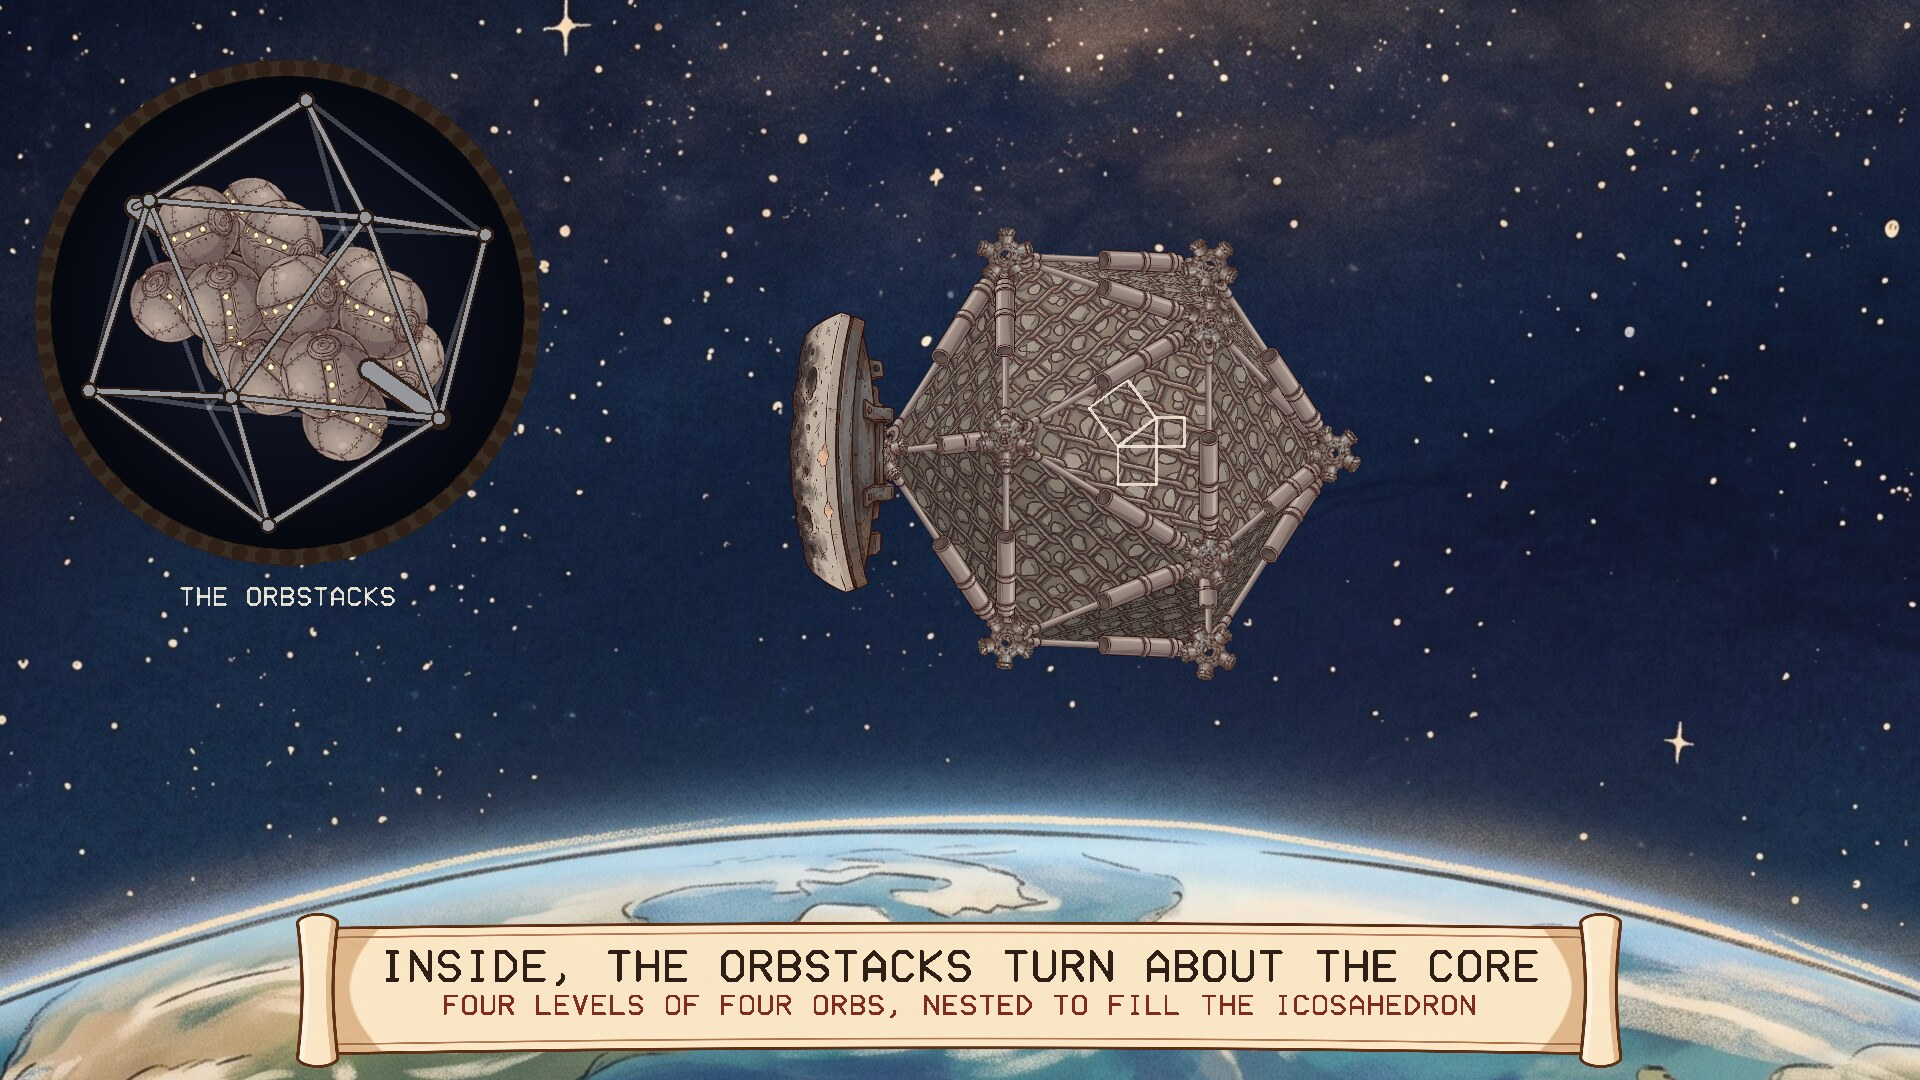
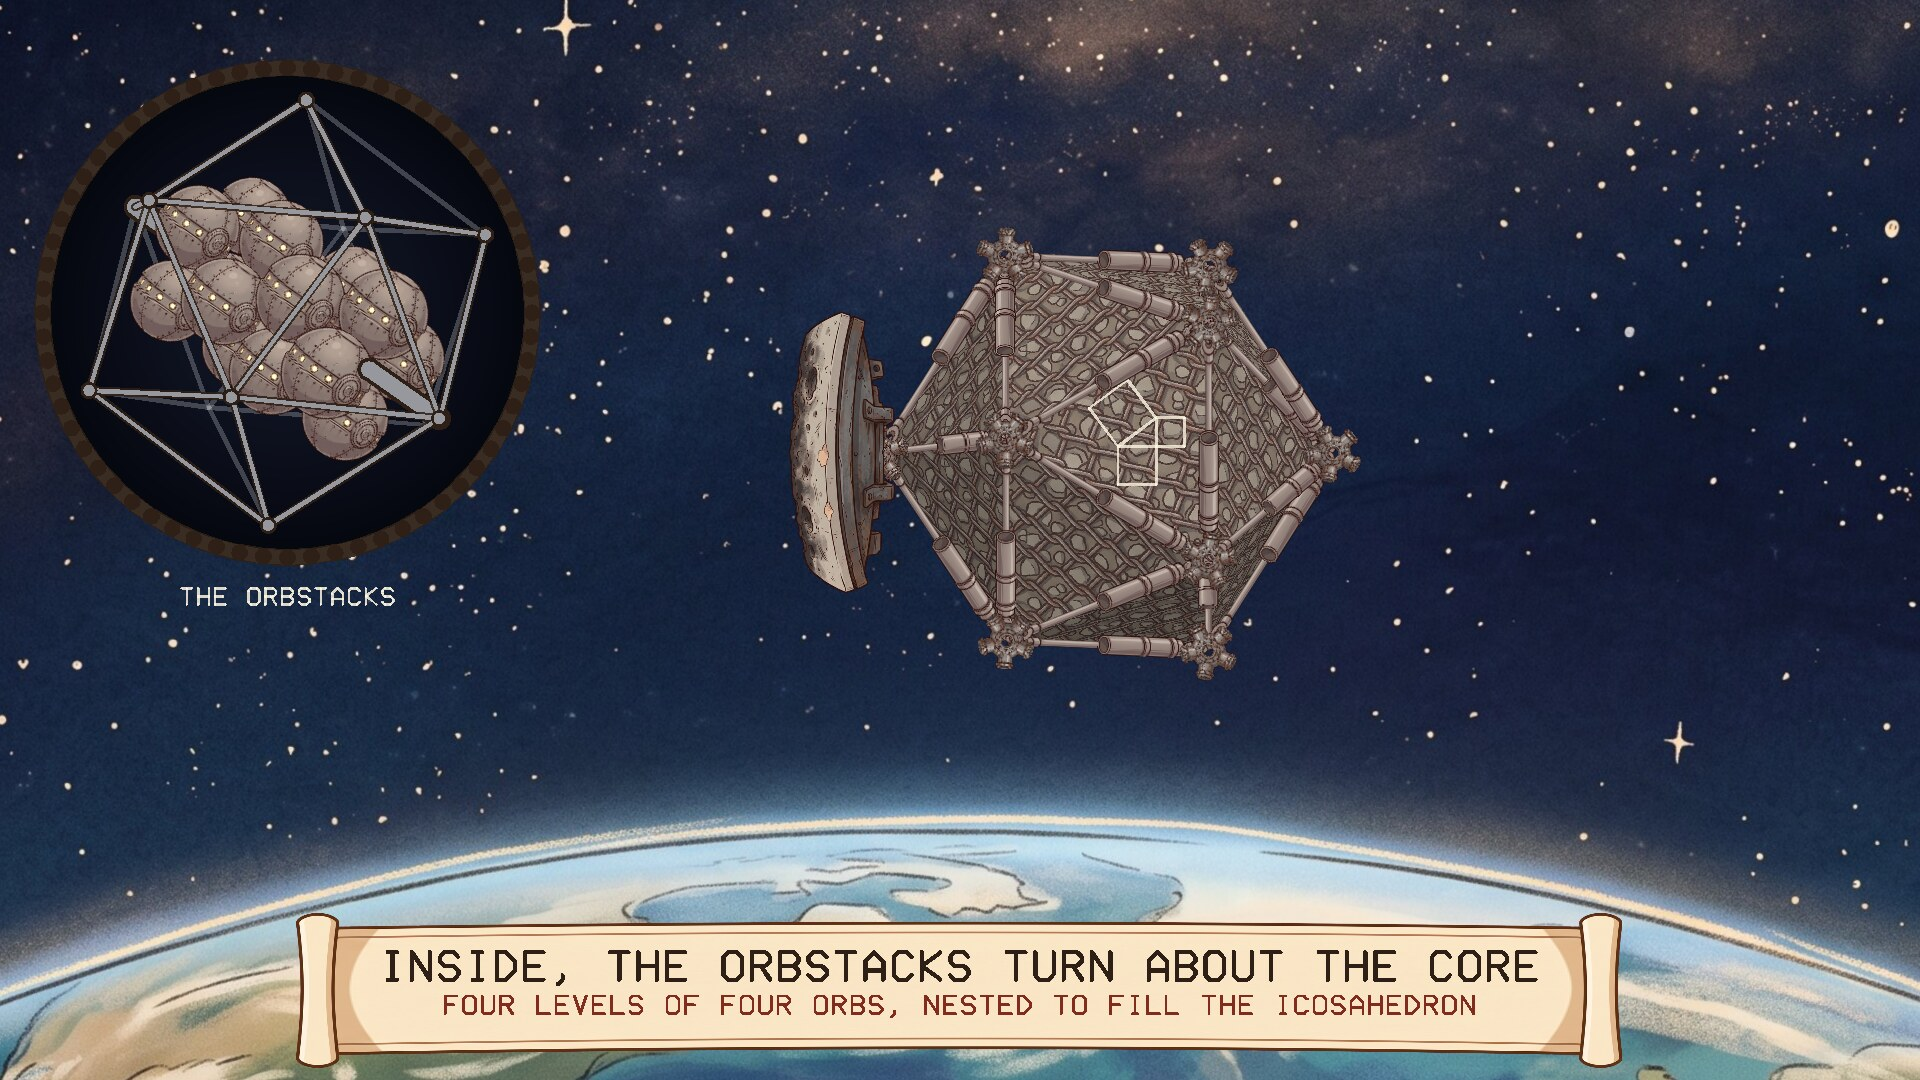
The orbstack goes round the Core as one piece

Changed region(s): [[0.0625, 0.1528, 0.25, 0.4278]]

diff --git a/src/urnud.c b/src/urnud.c
@@ -524,7 +524,9 @@ static void draw_core(double cx, double cy, double R)
         o[n].hx = cx + ax * along; o[n].hy = cy + ay * along;
         o[n].x = o[n].hx + (ux * c + vx * sn) * reach; o[n].y = o[n].hy + (uy * c + vy * sn) * reach;
         o[n].z = az * along + vz * sn * reach;
-        o[n].deg = atan2(o[n].y - o[n].hy, o[n].x - o[n].hx) * 180 / M_PI + 90;
+        /* every orb is drawn the same way up, its band of windows lying along the Core:
+         * the whole stack goes round the Core as one piece and no orb turns on its own */
+        o[n].deg = atan2(ay, ax) * 180 / M_PI;
     }
     for (int i = 0; i < 16; i++) for (int j = i + 1; j < 16; j++) if (o[j].z < o[i].z) { t = o[i]; o[i] = o[j]; o[j] = t; }
     /* the icosahedron they fill, corner to corner along the Core: 5 orb-radii from

diff --git a/README.md b/README.md
@@ -67,7 +67,7 @@ Packages are on the [releases page](../../releases).
 
 ### Windows
 
-Run `DabanUrnud-Setup-1.0.4.exe`. It asks for administrator rights, because Windows
+Run `DabanUrnud-Setup-1.0.5.exe`. It asks for administrator rights, because Windows
 only lists screensavers that are in its own system folder. After that "The Daban
 Urnud" is in Screen Saver Settings with the others, already selected. Uninstall from
 Apps.
@@ -76,11 +76,11 @@ Apps.
 
 **Fedora, Nobara** (built on Fedora 44):
 
-    sudo dnf install ./daban-urnud-1.0.4-1.fc44.x86_64.rpm
+    sudo dnf install ./daban-urnud-1.0.5-1.fc44.x86_64.rpm
 
 **Debian, Ubuntu, Mint** (Ubuntu 24.04 / Debian 13 or later):
 
-    sudo apt install ./daban-urnud_1.0.4_amd64.deb
+    sudo apt install ./daban-urnud_1.0.5_amd64.deb
 
 From your next login it starts by itself after five minutes idle, and any key or
 mouse movement ends it. To start the watcher without logging out, or to change the
